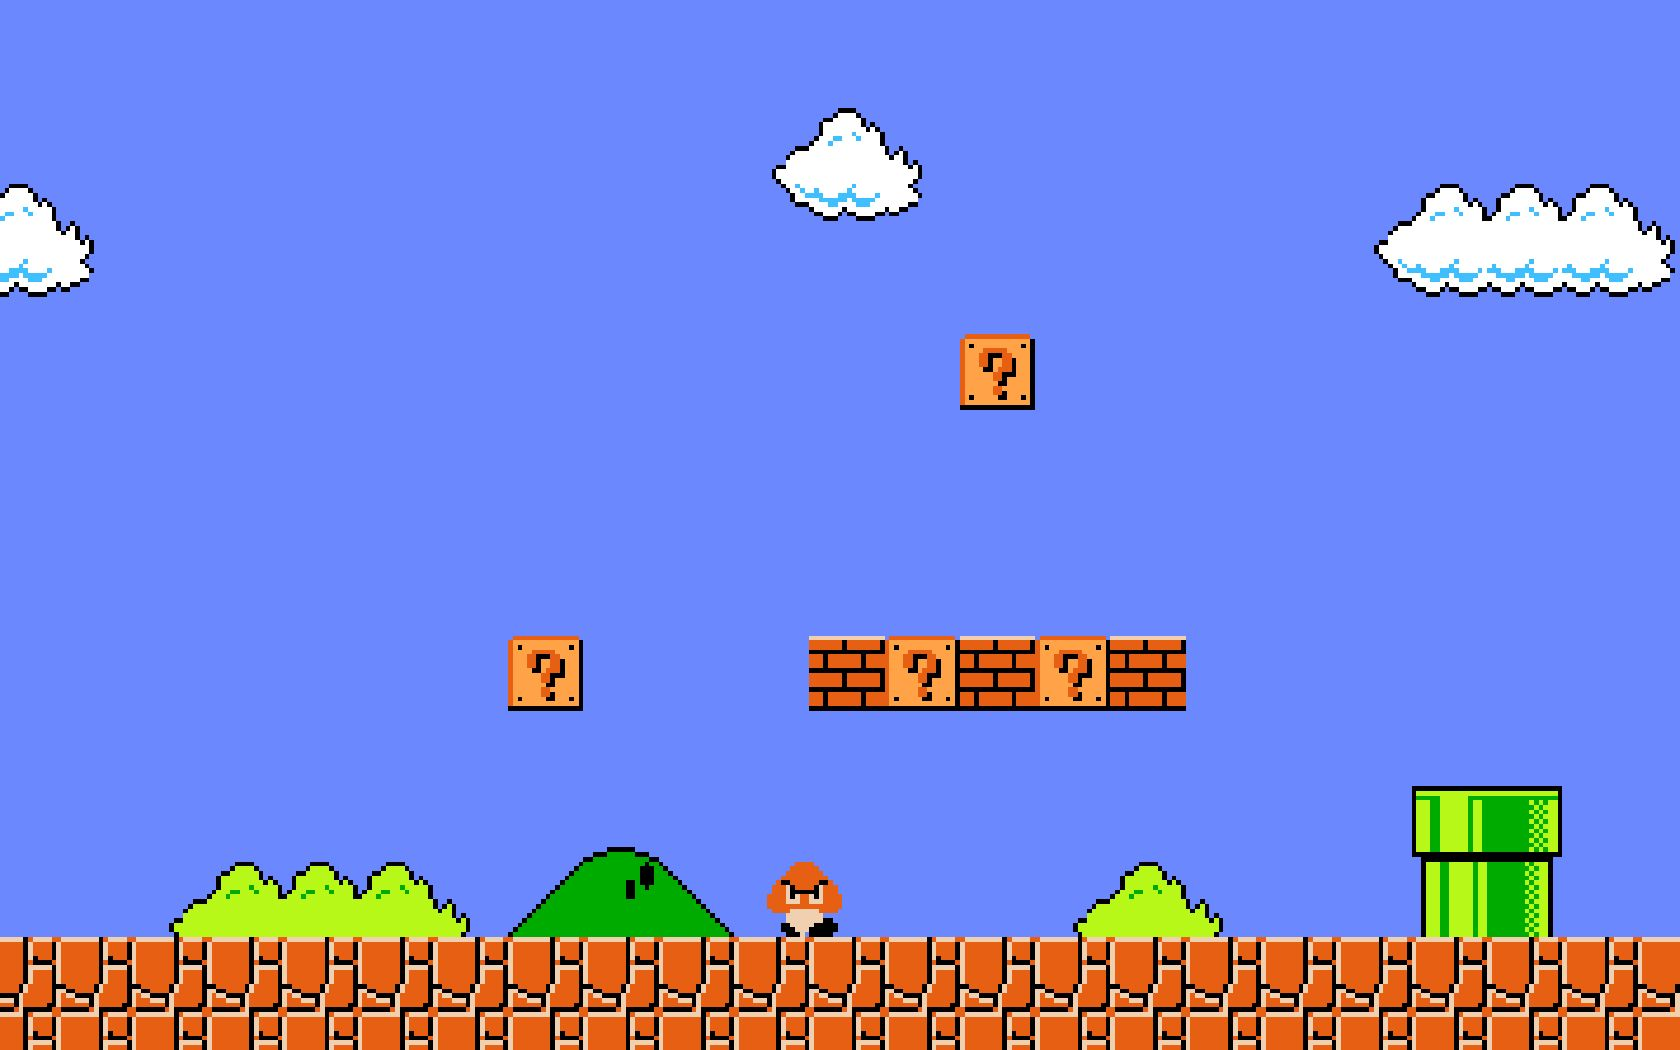
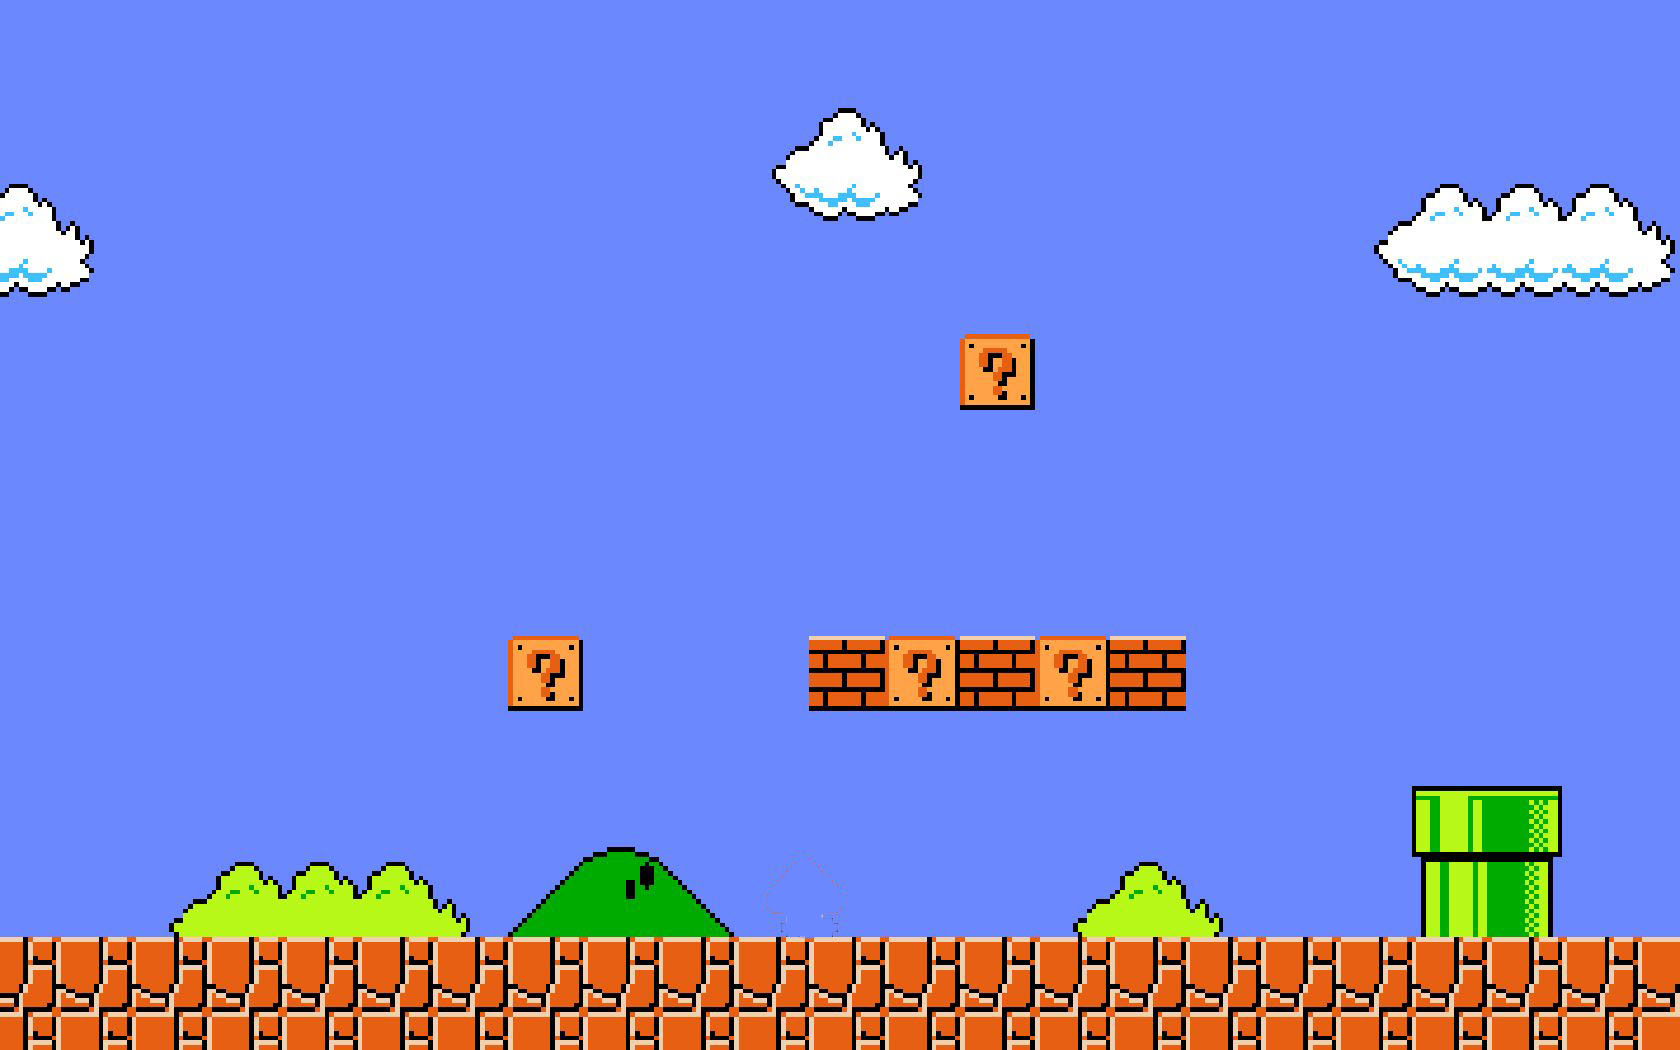
jump animation added

diff --git a/eindopdracht/mario.js b/eindopdracht/mario.js
@@ -36,7 +36,7 @@ bomba_2_loca=0
 
   document.body.onkeydown = function userData(e) {
       if( e.keyCode == 87 ) {
-        addHit();
+        jump();
         // mario.classList.add("large")
         // setTimeout(function(){mario.classList.remove("large")}, 500)      
       }else if(e.keyCode==68){
@@ -53,8 +53,12 @@ bomba_2_loca=0
     }
 
 
-var addHit = function() {
+var jump = function() {
     // document.getElementById('mario').height="500";
+    setTimeout(function(){
+      document.getElementById("mario").src = "mario.webp";
+   }, 500);
+    document.getElementById("mario").src = "mario_jump.png";
     console.log("Spacebar Pressed")
     mario.classList.add("jump")
     setTimeout(function(){mario.classList.remove("jump")}, 500)
@@ -115,36 +119,44 @@ function locaAddRight(){
 var locaGetter=function(){
   console.log("Loca: " + loca)
 }
-
+// Bron: https://www.w3schools.com/js/tryit.asp?filename=tryjs_dom_animate_3 
 function bomba_1_Loca(){
   let id = null;
-  const elem = document.getElementById("enemy1");   
+  const enemy1 = document.getElementById("enemy1");   
   let bombaAfstand = -1255;
   clearInterval(id);
-  id = setInterval(frame, 5);
+  id = setInterval(frame, 7);
   function frame() {
     if (bombaAfstand == -800) {
       bombaAfstand=-1255
     } else {
       bombaAfstand++; 
-      elem.style.left = -bombaAfstand + "px"; 
+      enemy1.style.left = -bombaAfstand + "px"; 
     }
   }
-}
+} 
+
+let id = null;
+const enemy2 = document.getElementById("enemy2");   
+let bombaAfstand = -390;
 function bomba_2_Loca(){
-  let id = null;
-  const elem = document.getElementById("enemy2");   
-  let bombaAfstand = -390;
+ 
   clearInterval(id);
-  id = setInterval(frame, 5);
+  id = setInterval(frame, 10);
   function frame() {
     if (bombaAfstand == 0) {
       bombaAfstand=-390
     } else {
       bombaAfstand++; 
-      elem.style.left = -bombaAfstand + "px"; 
+      enemy2.style.left = -bombaAfstand + "px"; 
     }
   }
+}
+
+function goombaStart(){
+  collisionCheck()
+  bomba_1_Loca()
+  bomba_2_Loca()
 }
     // for (let i = 0; i < 10; i++) {
     //   const bomba_1=document.getElementById("enemy1")
@@ -161,3 +173,10 @@ function bomba_2_Loca(){
 // function restartLoc(){
 //   loca=loca-1000
 // }
+
+function collisionCheck(){
+  while(loca==bombaAfstand){
+    console.log("hit")
+    // console.log(bombaAfstand)
+  } return
+}
